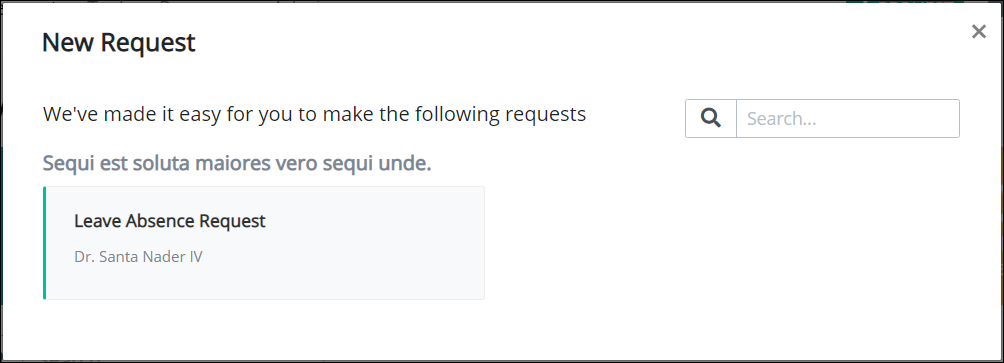
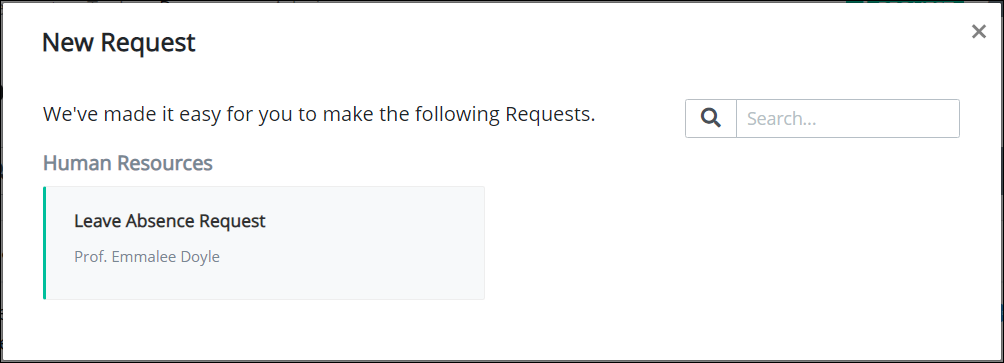
GitBook: [processmaker] 9 pages and one asset modified

diff --git a/using-processmaker/requests/delete-a-request.md b/using-processmaker/requests/delete-a-request.md
@@ -7,10 +7,10 @@ description: Cancel a Request in which you have permission to do so.
 Request participants can cancel a Request in the following circumstances:
 
 * A Process Owner for the process associated with a Request [selects which permission\(s\) are allowed to cancel a Request for that process](../../designing-processes/viewing-processes/view-the-list-of-processes/edit-the-name-description-category-or-status-of-a-process.md#edit-general-information-about-a-process). If a Request participant's user account has that permission, then that Request participant can cancel a Request for that process.
-* Any Process Administrator can cancel a Request associated with any process.
+* Any Process Administrator can cancel a Request associated with any active process.
 
 {% hint style="info" %}
-If your user account does not have the permission to cancel Requests for that process, functionality does not display to cancel those Requests.
+If your user account does not have the permission\(s\) to cancel Requests for that process, functionality does not display to cancel those Requests.
 {% endhint %}
 
 ## Cancel a Request
@@ -24,7 +24,7 @@ Follow these steps to cancel a Request:
 
    ![](../../.gitbook/assets/in-progress-request.png)
 
-3. Click the Request ID value in the first column of the table for the Request you want to cancel. Information about the Request displays.  
+3. Click the ~~Request ID value \(or Process Name associated with the Request?\)~~ in the first column of the table for the Request that you want to cancel. Information about the Request displays.  
 
    ![](../../.gitbook/assets/in-progress-request-to-cancel-request-requests%20%281%29.png)
 

diff --git a/using-processmaker/requests/view-in-progress-requests.md b/using-processmaker/requests/view-in-progress-requests.md
@@ -30,7 +30,7 @@ The **In Progress** tab displays the following information:
 * **ID:** The **ID** column displays the Request ID. ~~What does the ID represent?~~ Click the ID to [view information](request-details.md) about that Request.
 * **Process:** The **Process** column displays the name of the process associated with the Request.
 * **Status:** The **Status** column displays the **In Progress** status.
-* **Participants:** The **Participants** column displays avatars of each participant in the Request. Participants might be users interacting with a form or as an authenticated user to the ProcessMaker 4 REST API.
+* **Participants:** The **Participants** column displays avatars of each participant in the Request. Participants might be users interacting with a form or as an authenticated user to the ProcessMaker 4 [REST API](https://develop.bpm4.qa.processmaker.net/api/documentation).
 * **Started:** The **Started** column displays the date and time you made the Request. The time is displayed according to your time zone setting.
 * **Completed:** The **Completed** column displays the date and time the Request was completed. Since Requests in this tab are in-progress, this column is empty.
 

diff --git a/designing-processes/scripts/what-is-a-script.md b/designing-processes/scripts/what-is-a-script.md
@@ -9,7 +9,7 @@ In ProcessMaker 4, Scripts allow Process Owners and ProcessMaker Developers to w
 While writing a ProcessMaker Script, test it before you deploy it. ProcessMaker Scripts are tested within the authoring environment to ensure they function as intended. While testing, do the following:
 
 * Use the JSON data model that you can [preview from your ProcessMaker Screens](../design-forms/screens-builder/preview-a-screen.md) to ensure that variables designed from a ProcessMaker Screen function as intended in your ProcessMaker Script.
-* [Incorporate other JSON-formatted data](), such as API keys, to ensure your ProcessMaker Script uses them correctly during your testing.
+* [Incorporate other JSON-formatted data](scripts-editor.md#enter-other-json-data-as-input-to-your-processmaker-script), such as API keys, to ensure your ProcessMaker Script uses them correctly during your testing.
 
 During run-time, ProcessMaker Scripts run within isolated containers for greater security. After the ProcessMaker Script runs and returns output to the process, the container that isolated and ran the script automatically removes itself.
 

diff --git a/using-processmaker/requests/make-a-request.md b/using-processmaker/requests/make-a-request.md
@@ -13,7 +13,9 @@ Follow these steps to start a Request:
 
    ![](../../.gitbook/assets/+-request-button-highlighted.png)
 
-   The **New Request** screen displays. This screen displays processes for which you are authorized to start a new Request. Below is the **New Request** screen with a process.  
+   The **New Request** screen displays. This screen displays processes for which you are authorized to start a new Request.
+
+   Below is the **New Request** screen with a process from which a Request can be started. Processes can be organized into categories within your organization to make it easier to locate from which process to start a Request.  
 
    ![](../../.gitbook/assets/new-request-screen-requests.png)
 
@@ -27,6 +29,8 @@ Follow these steps to start a Request:
 {% hint style="info" %}
 If there are no active processes or you do not have authorization to start a Request for a process, the following message displays: **No Requests have been defined yet or are available to you**.
 {% endhint %}
+
+After the Request starts, the new Request displays in the **My Requests** tab.
 
 ## Related Topics
 

diff --git a/using-processmaker/requests/request-details.md b/using-processmaker/requests/request-details.md
@@ -41,7 +41,7 @@ In-progress Requests display information about the participants in a selected Re
 
 The following information displays about participants in a selected in-progress Request:
 
-* **Requested By:** The **Requested By** field displays the avatar and full name of the person who started the selected Request. The Request may have been started from a person manually interacting with a form or as an authenticated user to the ProcessMaker 4 REST API.
+* **Requested By:** The **Requested By** field displays the avatar and full name of the person who started the selected Request. The Request may have been started from a person manually interacting with a form or as an authenticated user to the ProcessMaker 4 [REST API](https://develop.bpm4.qa.processmaker.net/api/documentation).
 * **Participants:** The **Participants** field displays the avatars of all participants in the selected Request to date.
 * **Request creation date:** The date and time the Request was created displays below the **Participants** field.
 

diff --git a/using-processmaker/requests/what-is-a-request.md b/using-processmaker/requests/what-is-a-request.md
@@ -12,7 +12,7 @@ Below are a few examples of Requests that your organization might use:
 * Request a leave of absence for next week.
 * Request information about a project.
 
-Likewise, you can participate in others' Requests. This occurs when someone else in your organization starts a Request that involves you. You might be the only person making the decision of someone's Request, or you are member of a group involved in the decision process. Furthermore, Requests can be started automatically through the ProcessMaker 4 REST API.
+Likewise, you can participate in others' Requests. This occurs when someone else in your organization starts a Request that involves you. You might be the only person making the decision of someone's Request, or you are member of a group involved in the decision process. Furthermore, Requests can be started automatically through the ProcessMaker 4 [REST API](https://develop.bpm4.qa.processmaker.net/api/documentation).
 
 ## Related Topics
 

diff --git a/using-processmaker/requests/view-started-requests.md b/using-processmaker/requests/view-started-requests.md
@@ -16,7 +16,7 @@ Do one of the following to view Requests that you started:
 ![&quot;Started By Me&quot; Request tab](../../.gitbook/assets/started-by-me-request.png)
 
 {% hint style="info" %}
-Click the Request ID value in the first column of the table to [view information](request-details.md) about that Request.
+Click the ~~Request ID \(or the process name associated with the Request?\)~~ value in the first column of the table to [view information](request-details.md) about that Request.
 {% endhint %}
 
 {% hint style="info" %}

diff --git a/designing-processes/scripts/scripts-editor.md b/designing-processes/scripts/scripts-editor.md
@@ -84,7 +84,9 @@ Click the **Close** icon![](../../.gitbook/assets/close-icon-processes.png)from 
 
 Follow these best practices when developing ProcessMaker Scripts.
 
+~~What are Script Editor best practices?~~
 
+~~Is there a workflow in which a ProcessMaker Developer would work with a Process Owner, since the ProcessMaker Script must be ready before a process using a Script Task element can become active?~~
 
 ## Related Topics
 

diff --git a/using-processmaker/task-management/what-is-a-task.md b/using-processmaker/task-management/what-is-a-task.md
@@ -10,7 +10,7 @@ Below are a few examples of tasks that your organization might use:
 
 * Enter information into a form as part of a request.
 * Approve or reject a request based on entered information.
-* Run a script automatically as an authenticated user in the REST API.
+* Run a script automatically as an authenticated user in the [REST API](https://develop.bpm4.qa.processmaker.net/api/documentation).
 
 ## Related Topics
 
